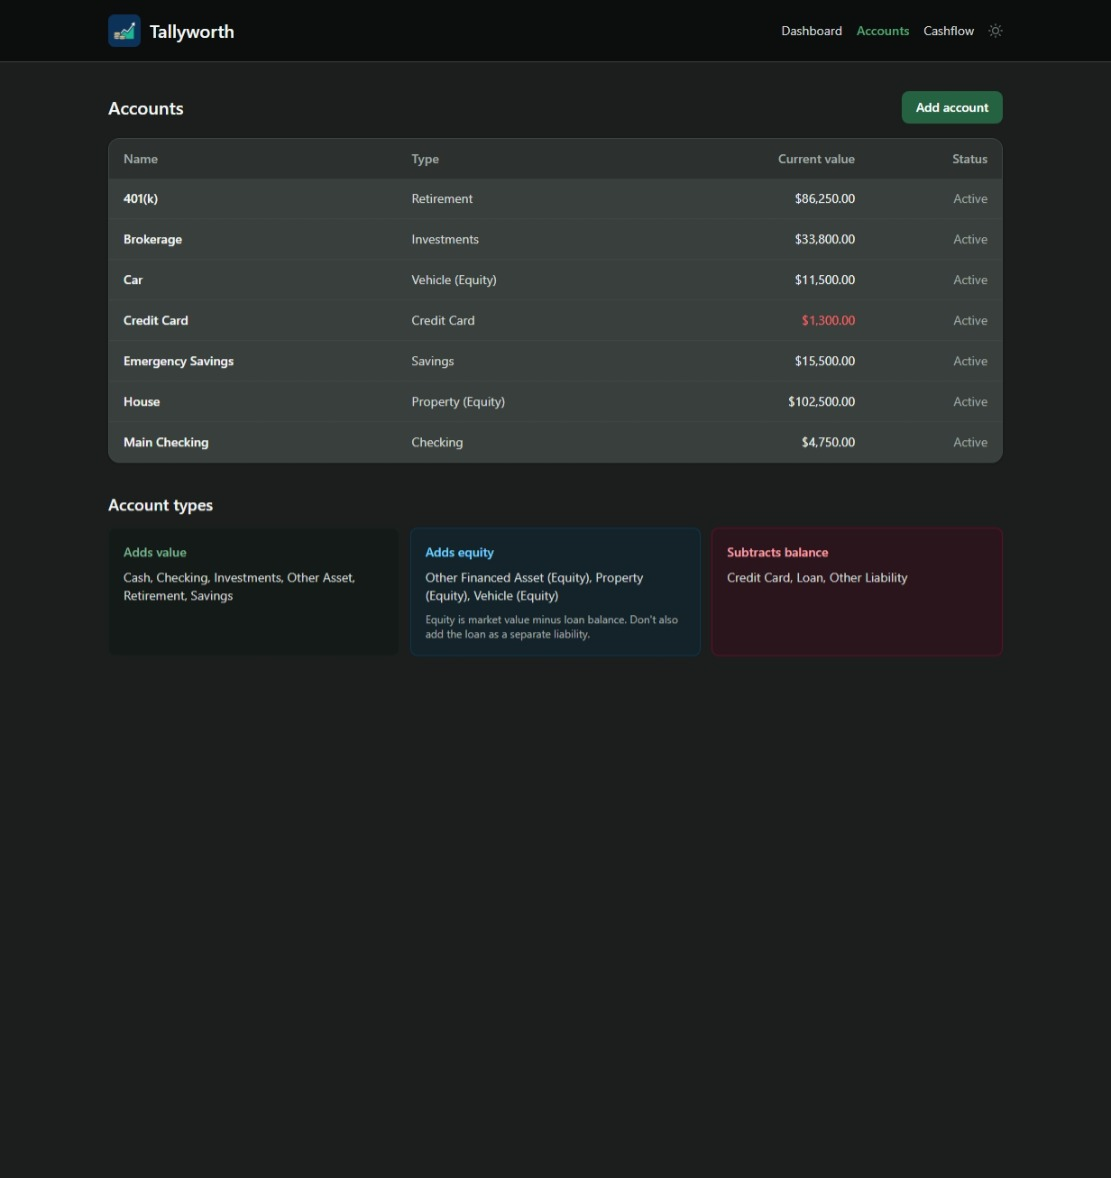
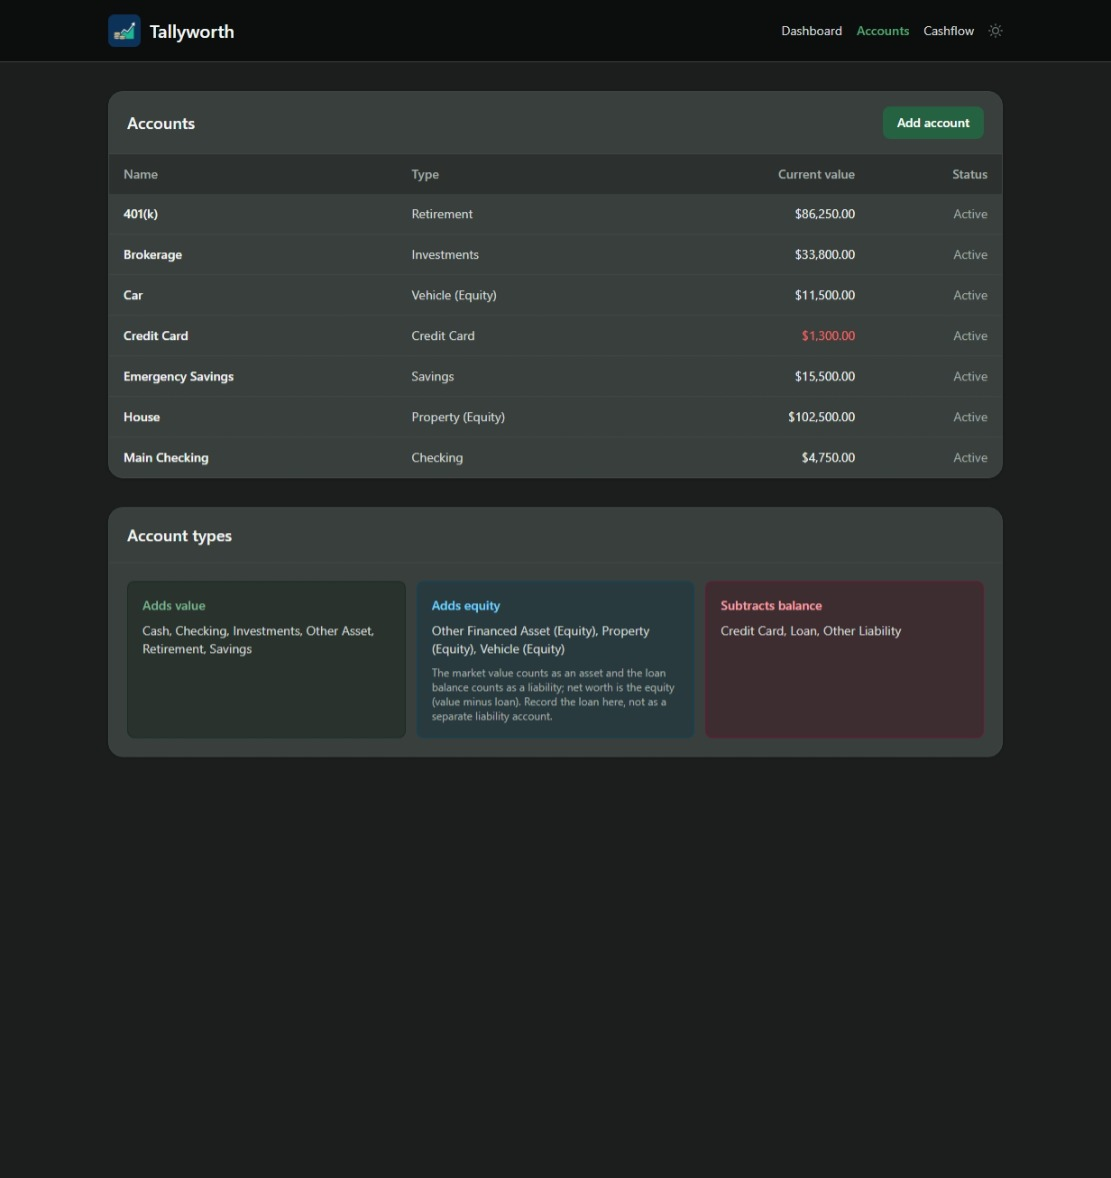
Documentation update

Changed region(s): [[0.0918, 0.0611, 0.9181, 0.6418]]

diff --git a/README.md b/README.md
@@ -14,9 +14,10 @@ tracker, or a financial planning tool. It does not connect to your bank. You are
 in full control of the numbers you enter.
 
 <p>
-  <img src="docs/screenshot_1.jpeg" alt="Dashboard" width="32%"/>
-  <img src="docs/screenshot_2.jpeg" alt="Accounts" width="32%" />
-  <img src="docs/screenshot_3.jpeg" alt="Cashflow" width="32%" />
+  <img src="docs/screenshot_1.jpeg" alt="Dashboard" width="24%"/>
+  <img src="docs/screenshot_2.jpeg" alt="Accounts" width="24%" />
+    <img src="docs/screenshot_3.jpeg" alt="Account" width="24%" />
+  <img src="docs/screenshot_4.jpeg" alt="Cashflow" width="24%" />
 </p>
 
 ## What it does
@@ -136,9 +137,15 @@ Tallyworth is a Flask application. To run it locally without Docker:
 - **Security:** CSRF-protected forms (Flask-WTF) and a strict Content-Security-Policy
 - **Deploy:** single Docker image, one mounted volume, zero required config
 
+## Why This?
+
+Having used budgeting software for many years and doing the daily transaction entries and getting down to each individual expenditure, a point was reached where money habits were well established and became more interested in just loosely tracking larger networth values and investments. This could absolutely be a spreedsheet. 
+
+If you are interested in more budgeting type software to really get a grasp of your dollars check out some of the known ones out there like Actual Budget, Firefly III or YNAB (if you feel like paying for something).  
+
 ## Disclaimer
 
-AI was used heavily to create this project.
+AI was used heavily to create this project. As long as it is being used i will keep it maintained but at this point there is really no other updates needed unless a compelling feature comes up.
 
 Tallyworth is provided as-is for personal tracking. It is not financial advice.
 Any figures and summaries it shows are based solely on the numbers you enter.